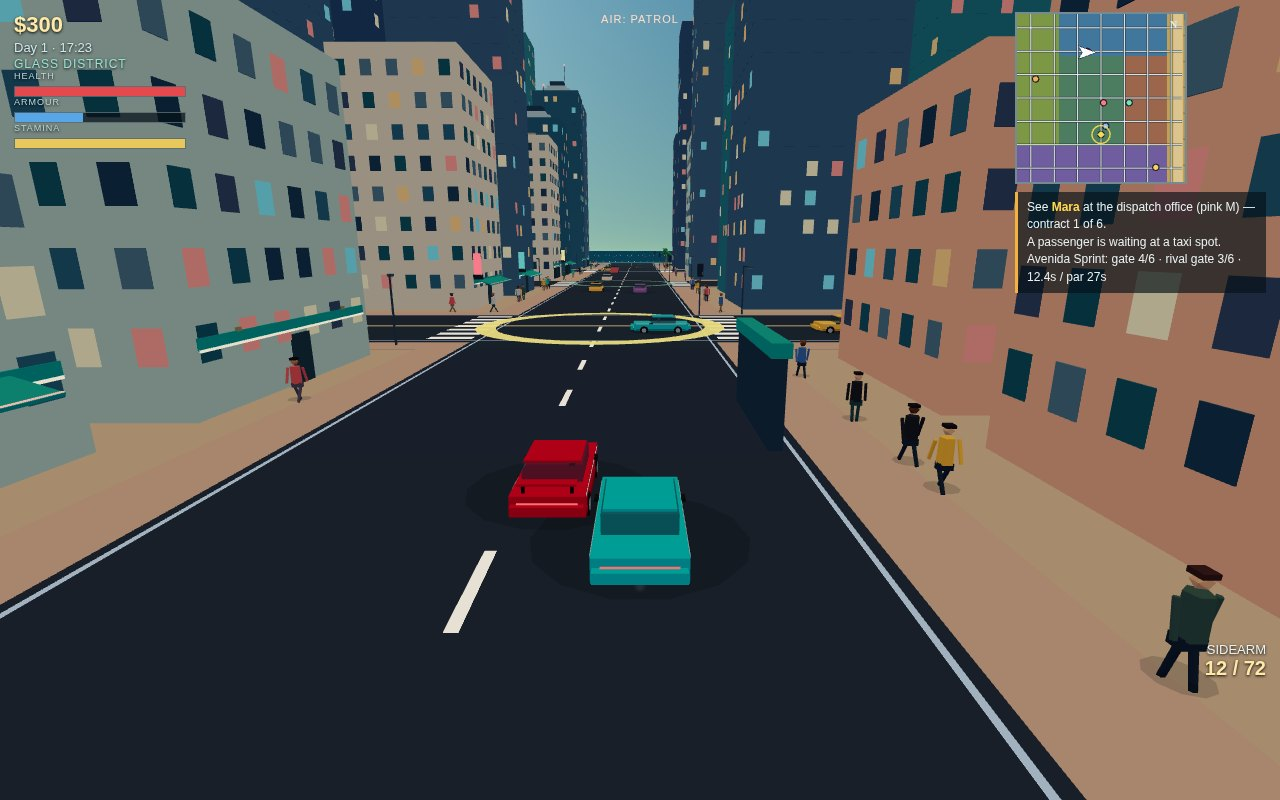
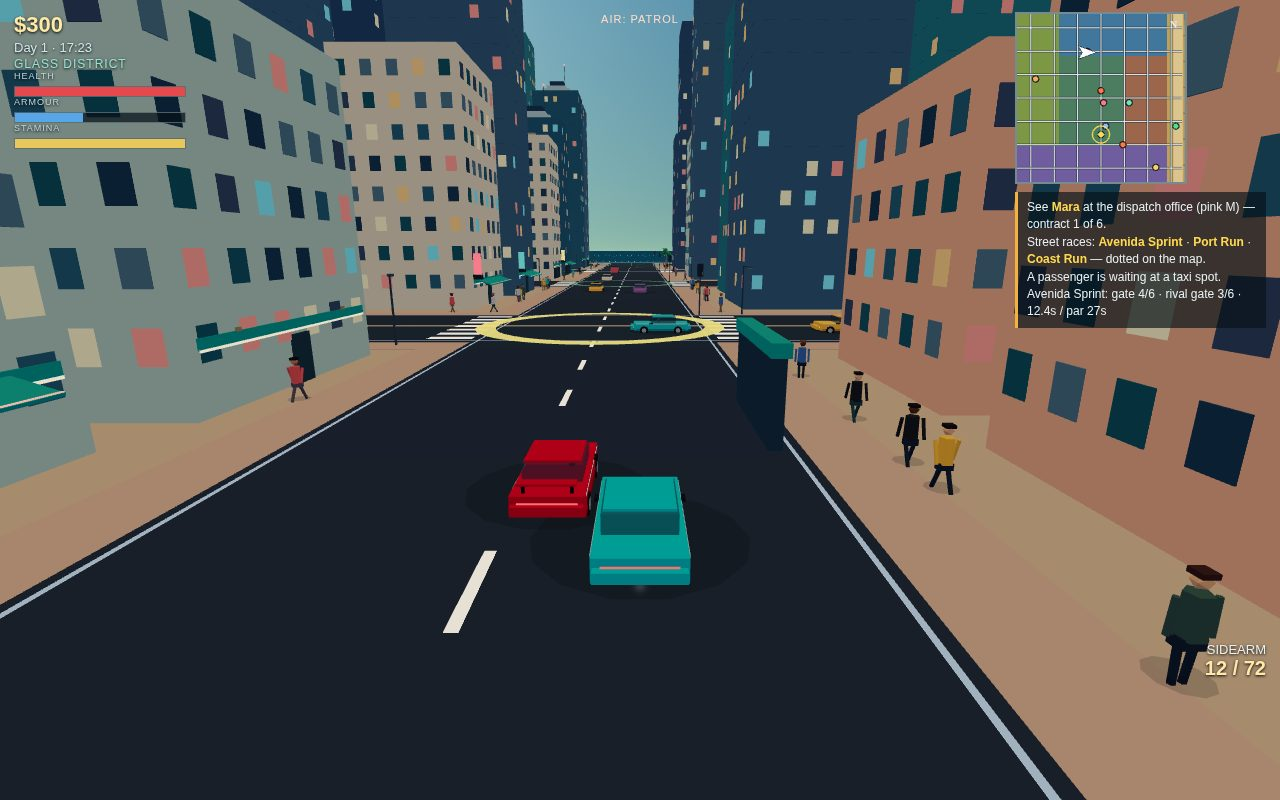
Round 5 screenshots — race cover kept, Mara dialogue card (the story UI alive), contract-3 boat leg mid-run, Port Sol heli night; shots.json updated

diff --git a/game/src/main.js b/game/src/main.js
@@ -892,12 +892,33 @@
   }
   function stageBoatRun() {
     const p = S.player;
+    const neutral = { moveX: 0, moveZ: 0, sprint: false, fire: false, handbrake: false, enterPressed: false, interactPressed: false, reloadPressed: false, weaponPressed: false, jumpPressed: false, interactHeld: false };
+    // mid-contract-3, honestly staged: accept the contract, the guards
+    // are down, the drive is collected — this is the boat leg being
+    // played, one sea gate already cleared, the second ahead
+    S.story.done = 2;
+    p.mode = 'foot'; p.carId = -1; p.x = D.SITES.mara.x; p.z = D.SITES.mara.z;
+    sim.step(1 / 60, { ...neutral, interactPressed: true });
+    S.guards.forEach(g => { g.down = true; g.hp = 0; });
+    for (let i = 0; i < 3; i++) sim.step(1 / 60, neutral);
+    p.x = 141; p.z = 177;
+    for (let i = 0; i < 3; i++) sim.step(1 / 60, neutral);
+    S.events.length = 0; // the accept dialogue is not part of this frame
     const boat = boatStates[0];
-    // offshore and angled toward the pier, so the frame is water, beach
-    // and skyline — not the pier deck filling the foreground
-    boat.x = 256; boat.z = 66; boat.ang = -Math.PI / 2 + 0.3; boat.speed = 9;
+    boat.x = 258; boat.z = 66; boat.ang = 2.36; boat.speed = 9;
+    S.storyGate = 1;
     p.mode = 'boat'; p.boatId = 0; p.x = boat.x; p.z = boat.z; p.ang = boat.ang; p.speedNow = 9;
     ui.camYaw = boat.ang; ui.camDist = 9;
+  }
+  function stageDialogue() {
+    const p = S.player;
+    // the round's headline: the story UI alive — Mara's contract card
+    // open over the dispatch office at golden hour
+    p.mode = 'foot'; p.carId = -1;
+    p.x = D.SITES.mara.x + 3.5; p.z = D.SITES.mara.z + 6.5;
+    p.ang = Math.atan2(D.SITES.mara.x - p.x, D.SITES.mara.z - p.z);
+    ui.showDialogue(D.CONTRACTS[0].start, '01 / A favor in the sun — $450', () => {});
+    ui.camYaw = p.ang - 0.55; ui.camDist = 8.5;
   }
   function applyShot(name) {
     const p = S.player;
@@ -911,6 +932,8 @@
       S.hours = 18.9;
     } else if (name === 'boat') {
       S.hours = 17.9;
+    } else if (name === 'dialogue') {
+      S.hours = 17.35;
     }
     const neutral = { moveX: 0, moveZ: 0, sprint: false, fire: false, handbrake: false, enterPressed: false, interactPressed: false, reloadPressed: false, weaponPressed: false, jumpPressed: false, interactHeld: false };
     for (let i = 0; i < 170; i++) sim.step(1 / 60, neutral);
@@ -918,6 +941,7 @@
     if (name === 'heliport') stageHeliPort();
     if (name === 'palm') stagePalmDusk();
     if (name === 'boat') stageBoatRun();
+    if (name === 'dialogue') stageDialogue();
     S.starsCache = sim.stars();
     const objective = computeObjective();
     processEvents();
